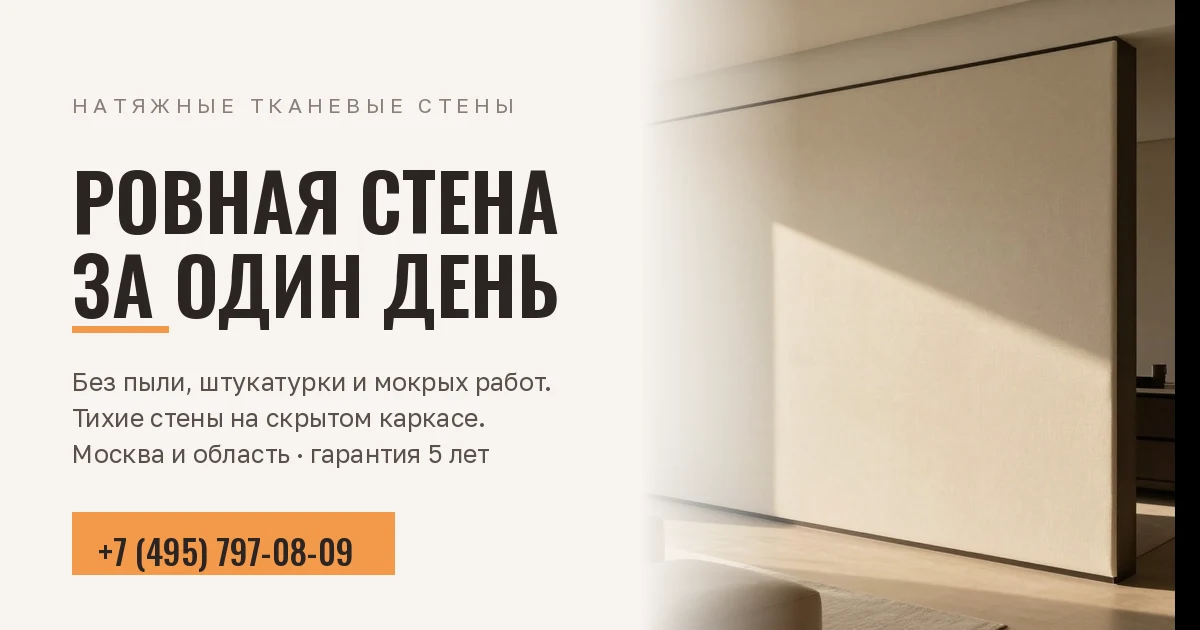
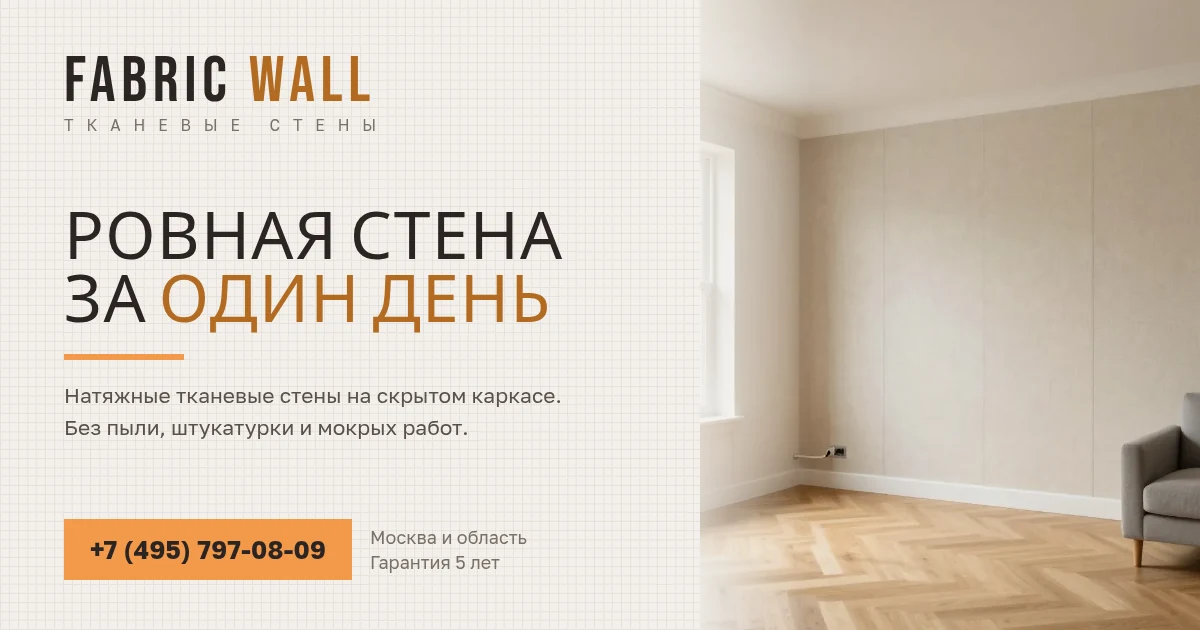
[FEAT] Добавил превью для соцсетей

diff --git a/index.html b/index.html
@@ -3,9 +3,9 @@
 <head>
     <meta charset="UTF-8"/>
     <meta name="viewport" content="width=device-width, initial-scale=1.0"/>
-    <title>Тканевые стены под ключ в Москве — монтаж за 1 день | Полотно</title>
+    <title>Тканевые стены под ключ в Москве — монтаж за 1 день | Fabric Wall</title>
     <meta name="description" content="Тканевые стены на скрытом каркасе: ровная стена за 1–2 дня без штукатурки, пыли и просушки. Шумоизоляция, скрытие неровностей и коммуникаций, гарантия до 5 лет">
-    <meta name="author" content="Полотно"/>
+    <meta name="author" content="Fabric Wall"/>
     <meta name="robots" content="index, follow, max-image-preview:large"/>
     <meta name="theme-color" content="#F7F4F0"/>
     <meta name="format-detection" content="telephone=no"/>
@@ -18,18 +18,23 @@
     <link rel="preconnect" href="https://fonts.googleapis.com">
     <link rel="preconnect" href="https://fonts.gstatic.com" crossorigin>
     <link rel="stylesheet" href="https://fonts.googleapis.com/css2?family=Bebas+Neue&family=Oswald:wght@400;500;600&family=Golos+Text:wght@400;500;600;700&display=swap">
+    <meta property="og:url" content="https://xn--80aeibazwe8adh9hf.xn--p1acf/">
     <meta property="og:type" content="website">
     <meta property="og:locale" content="ru_RU">
-    <meta property="og:site_name" content="Полотно">
-    <meta property="og:title" content="Тканевые стены под ключ в Москве — монтаж за 1 день | Полотно">
-    <meta property="og:description" content="Тканевые стены на скрытом каркасе: ровная стена за 1–2 дня без штукатурки, пыли и просушки. Шумоизоляция, скрытие неровностей и коммуникаций, гарантия до 5 лет">
+    <meta property="og:site_name" content="Fabric Wall">
+    <meta property="og:title" content="Fabric Wall — тканевые стены под ключ в Москве">
+    <meta property="og:description" content="Ровная стена за один день: натяжные тканевые стены на скрытом каркасе. Без пыли, штукатурки и мокрых работ. Москва и область, гарантия 5 лет">
     <meta name="twitter:card" content="summary_large_image">
-    <meta name="twitter:title" content="Тканевые стены под ключ в Москве — монтаж за 1 день">
+    <meta name="twitter:title" content="Fabric Wall — тканевые стены под ключ в Москве">
     <meta name="twitter:description" content="Ровная стена за 1–2 дня. Бесплатный замер и смета за 24 часа.">
+    <meta property="og:image" content="https://xn--80aeibazwe8adh9hf.xn--p1acf/img/og-cover.jpg">
+    <meta property="og:image:secure_url" content="https://xn--80aeibazwe8adh9hf.xn--p1acf/img/og-cover.jpg">
+    <meta property="og:image:type" content="image/jpeg">
     <meta property="og:image:width" content="1200">
     <meta property="og:image:height" content="630">
-    <meta property="og:image" content="/img/og-cover.webp">
-    <meta name="twitter:image" content="/img/og-cover.webp">
+    <meta property="og:image:alt" content="Fabric Wall — натяжные тканевые стены на скрытом каркасе">
+    <meta name="twitter:image" content="https://xn--80aeibazwe8adh9hf.xn--p1acf/img/og-cover.jpg">
+    <meta name="vk:image" content="https://xn--80aeibazwe8adh9hf.xn--p1acf/img/og-cover.jpg">
 
     <!-- IMPORTANT: DO NOT REMOVE THIS SCRIPT TAG OR THIS COMMENT! -->
 

diff --git a/src/components/Seo.tsx b/src/components/Seo.tsx
@@ -12,8 +12,8 @@ interface SeoProps {
   jsonLd?: Record<string, unknown> | Record<string, unknown>[];
 }
 
-const DEFAULT_IMAGE = '/img/og-cover.webp';
-const SITE_NAME = 'Полотно';
+const DEFAULT_IMAGE = '/img/og-cover.jpg';
+const SITE_NAME = 'Fabric Wall';
 
 const setMeta = (attr: 'name' | 'property', key: string, content: string) => {
   let el = document.head.querySelector<HTMLMetaElement>(`meta[${attr}="${key}"]`);
@@ -68,11 +68,16 @@ const Seo = ({
     setMeta('property', 'og:description', description);
     setMeta('property', 'og:url', url);
     setMeta('property', 'og:image', imageUrl);
+    setMeta('property', 'og:image:secure_url', imageUrl);
+    setMeta('property', 'og:image:width', '1200');
+    setMeta('property', 'og:image:height', '630');
+    setMeta('property', 'og:image:alt', title);
 
     setMeta('name', 'twitter:card', 'summary_large_image');
     setMeta('name', 'twitter:title', title);
     setMeta('name', 'twitter:description', description);
     setMeta('name', 'twitter:image', imageUrl);
+    setMeta('name', 'vk:image', imageUrl);
 
     if (publishedAt) setMeta('property', 'article:published_time', publishedAt);
 
